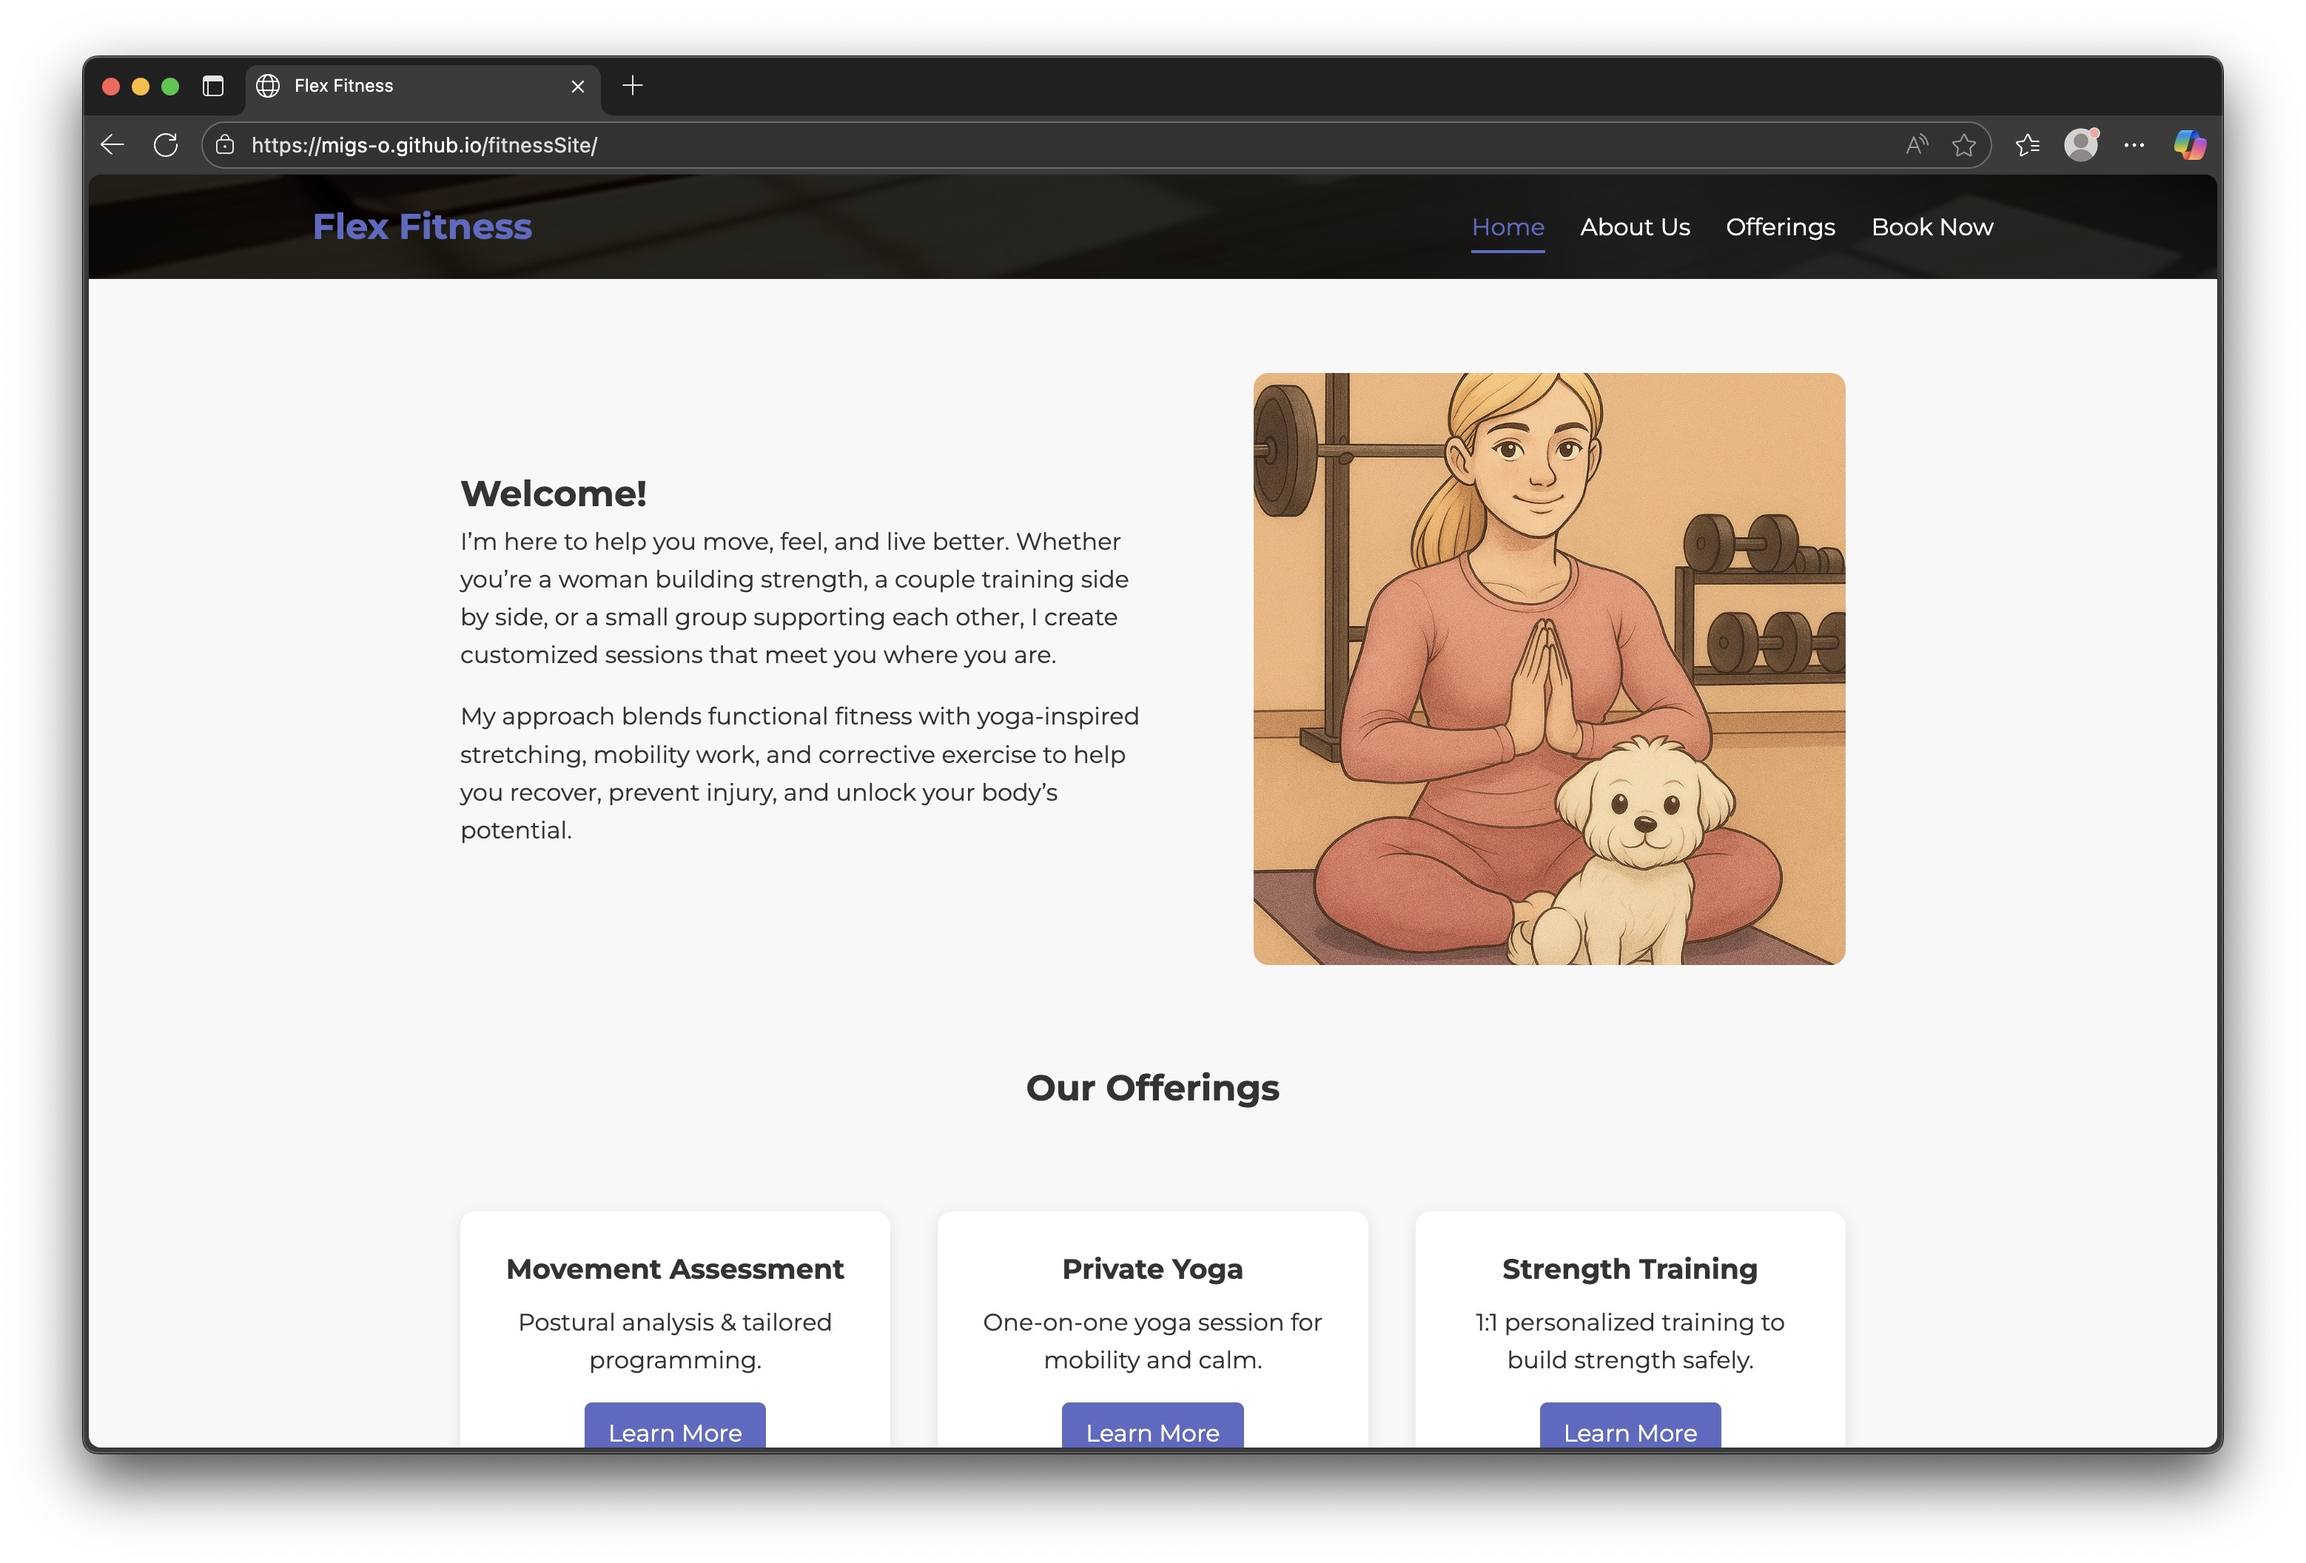
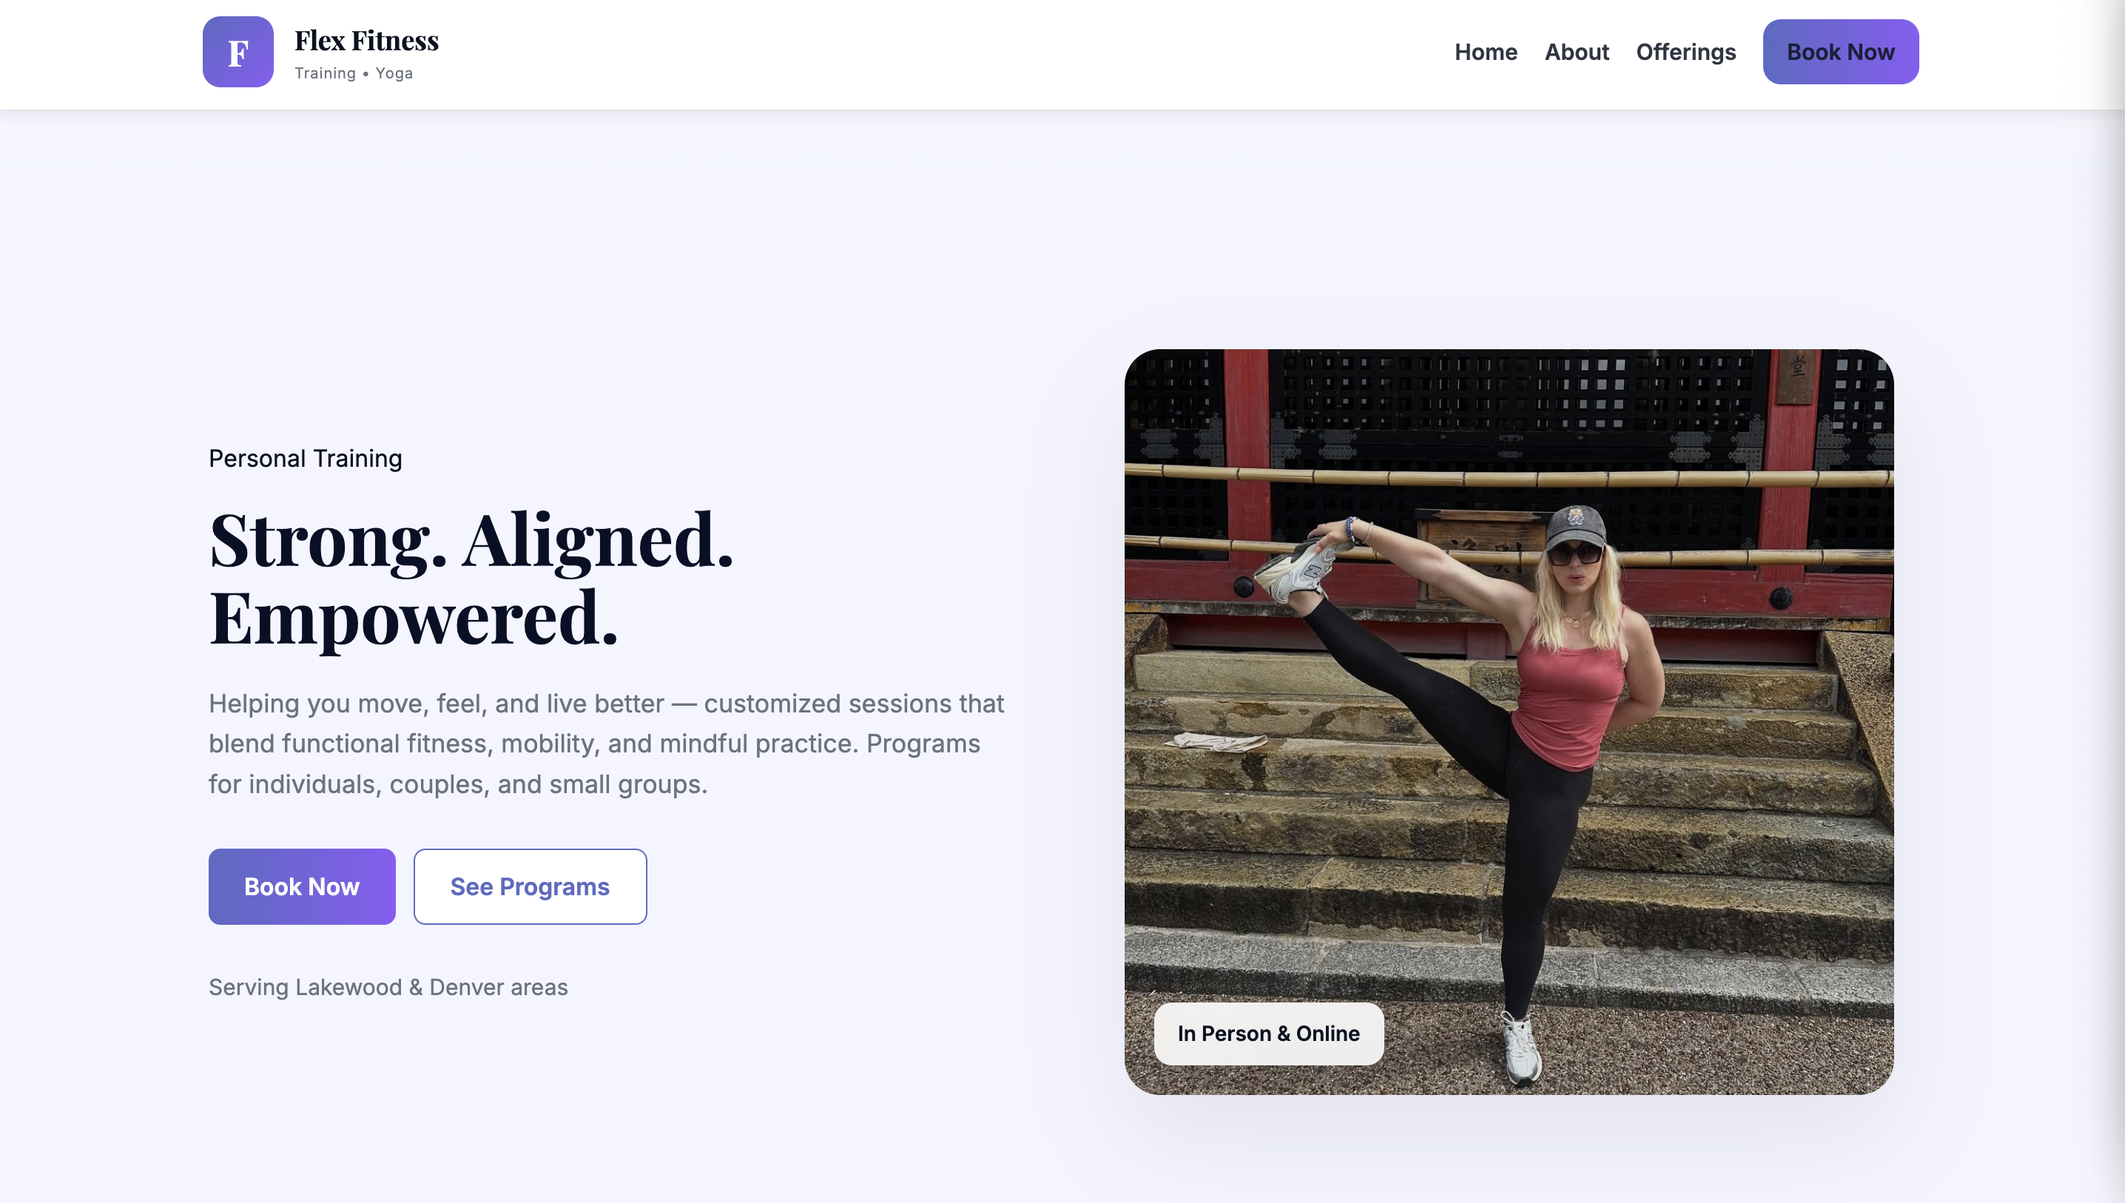
updated portfolio images

diff --git a/index.html b/index.html
@@ -184,7 +184,7 @@ footer { text-align:center; padding:2rem 1rem; color:#6b7280; font-size:.9rem; }
       </div>
       <div class="project-content">
         <h3>Flex Fitness with Chanel [Work in Progress]</h3>
-        <p>Responsive wellness website with HTML, CSS, and JavaScript, featuring services showcase, Calendly booking, interactive Instagram feed, and mobile-first navigation.</p>
+        <p>Responsive wellness website with HTML, CSS, and JavaScript, featuring services showcase, Calendly booking, and mobile-first navigation.</p>
         <a href="https://migs-o.github.io/fitnessSite/" target="_blank">View Site</a>
       </div>
     </div>
